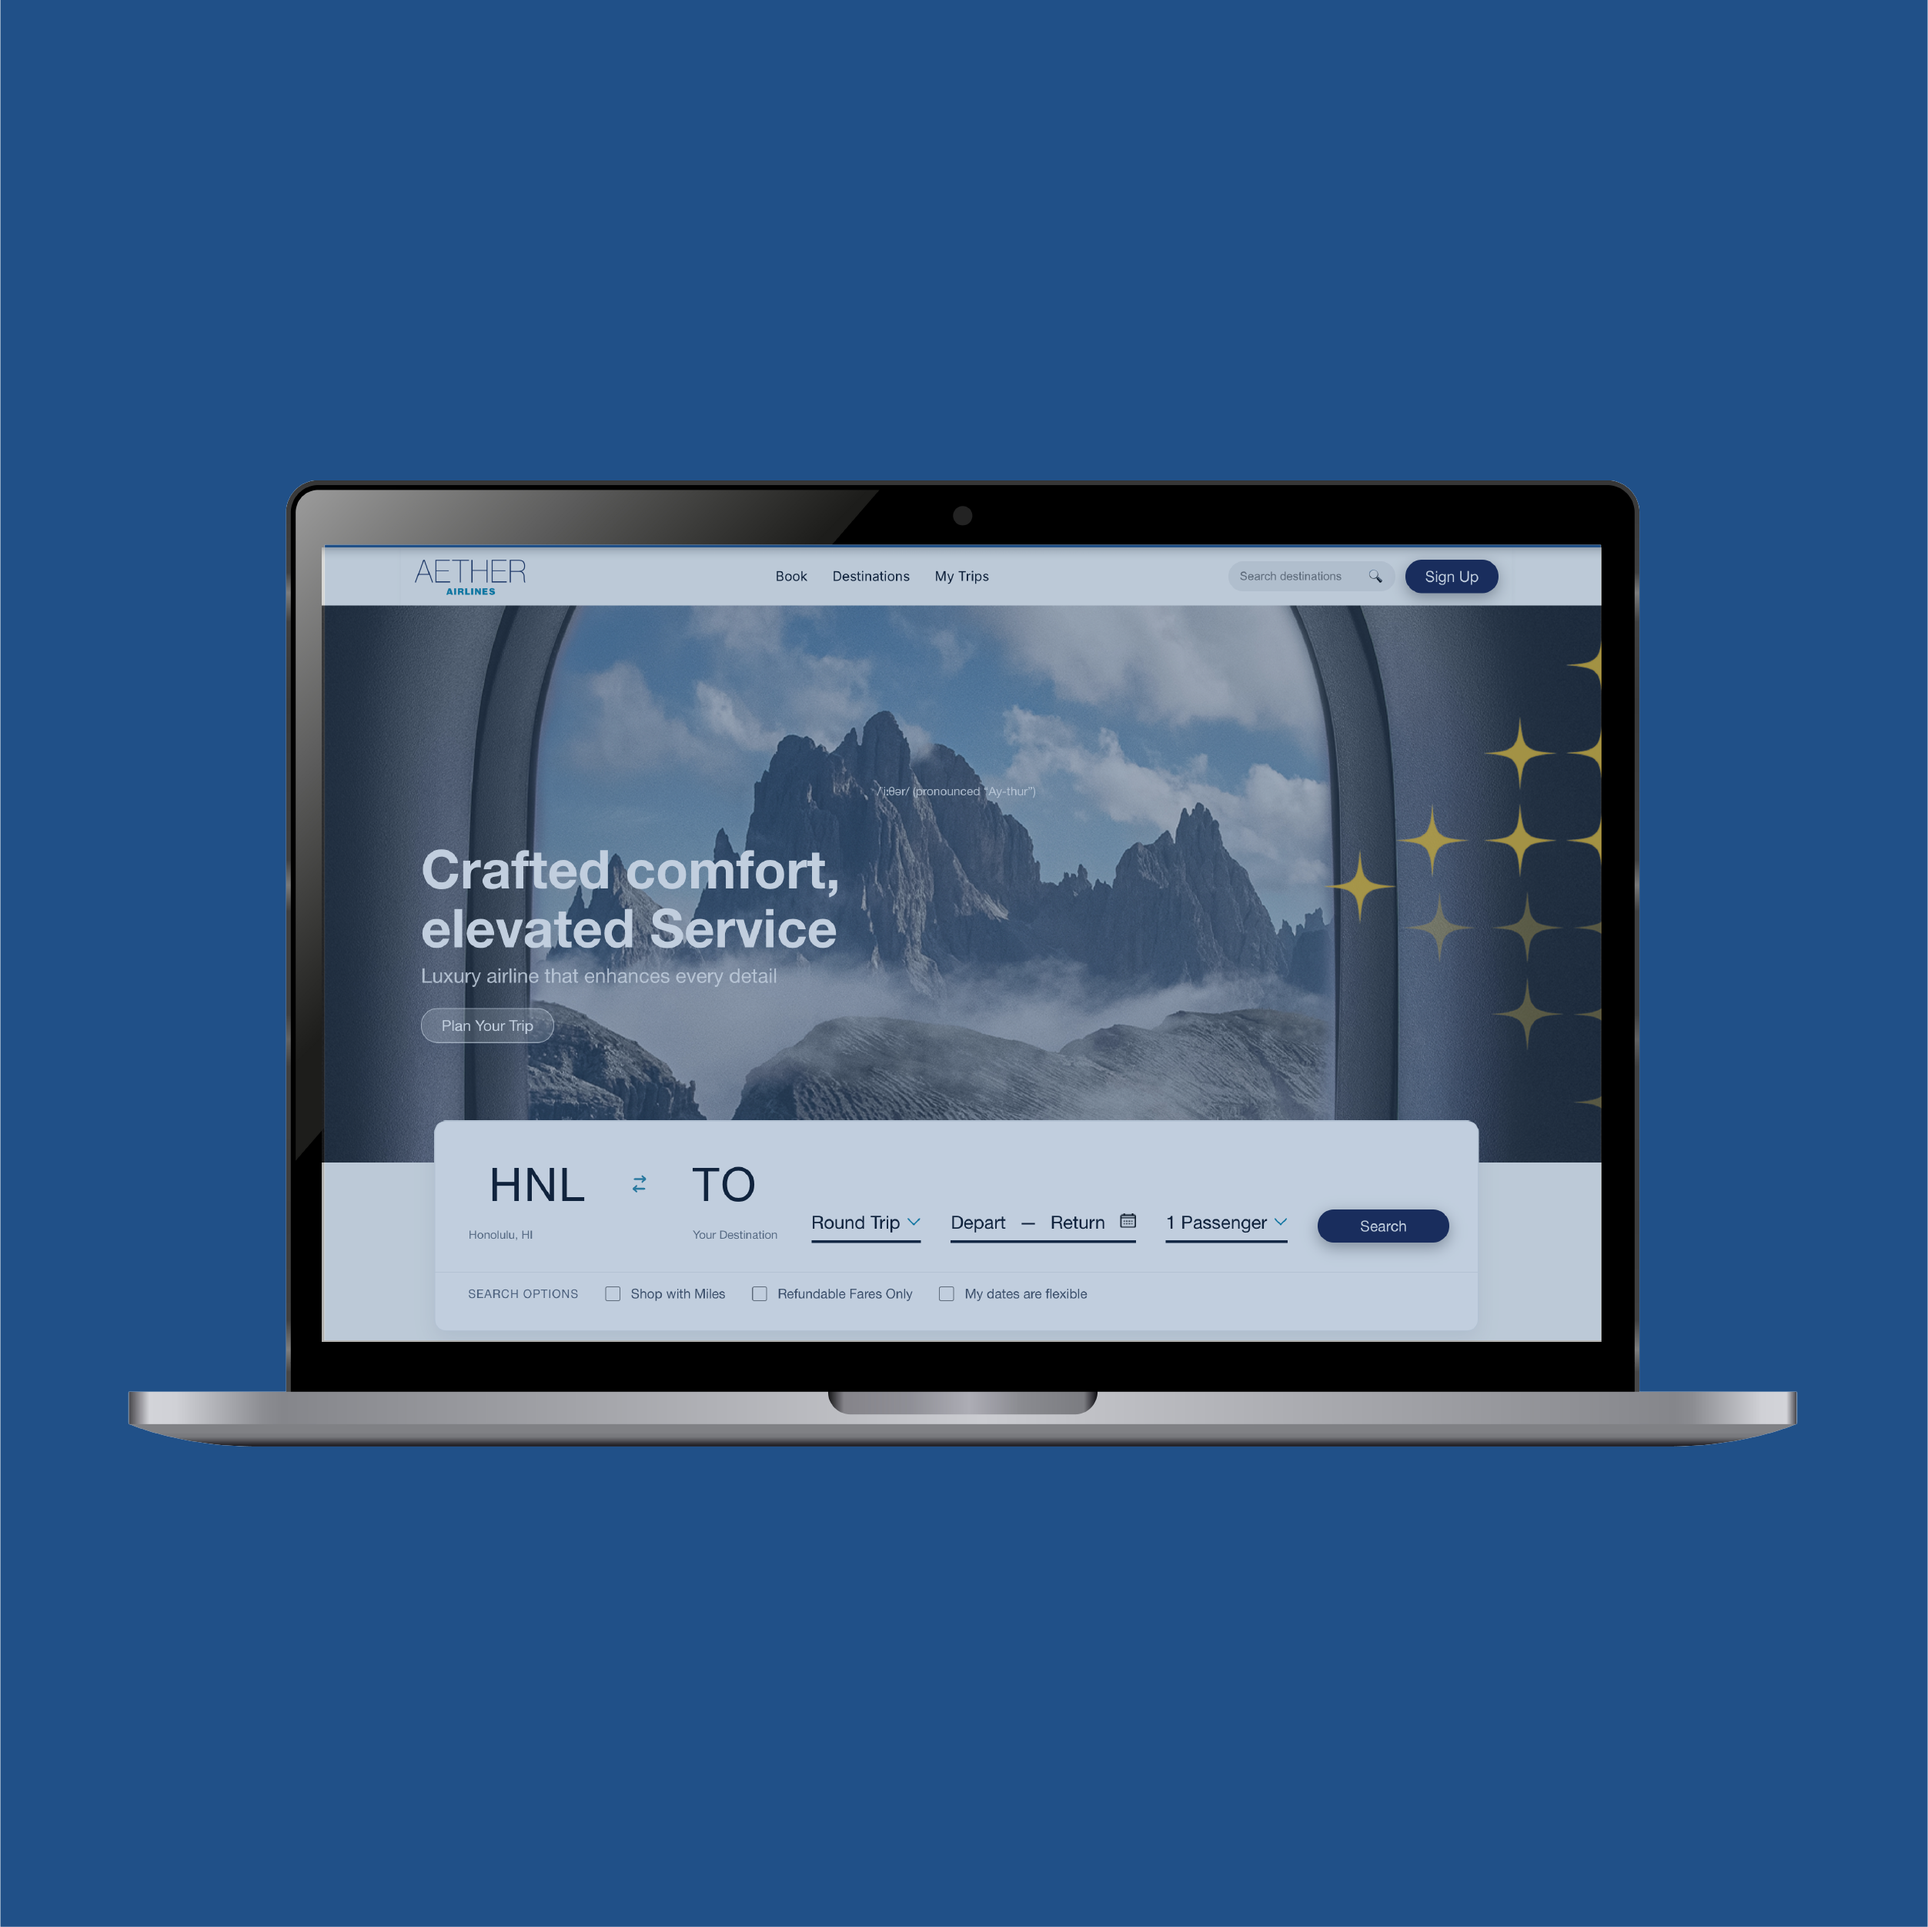
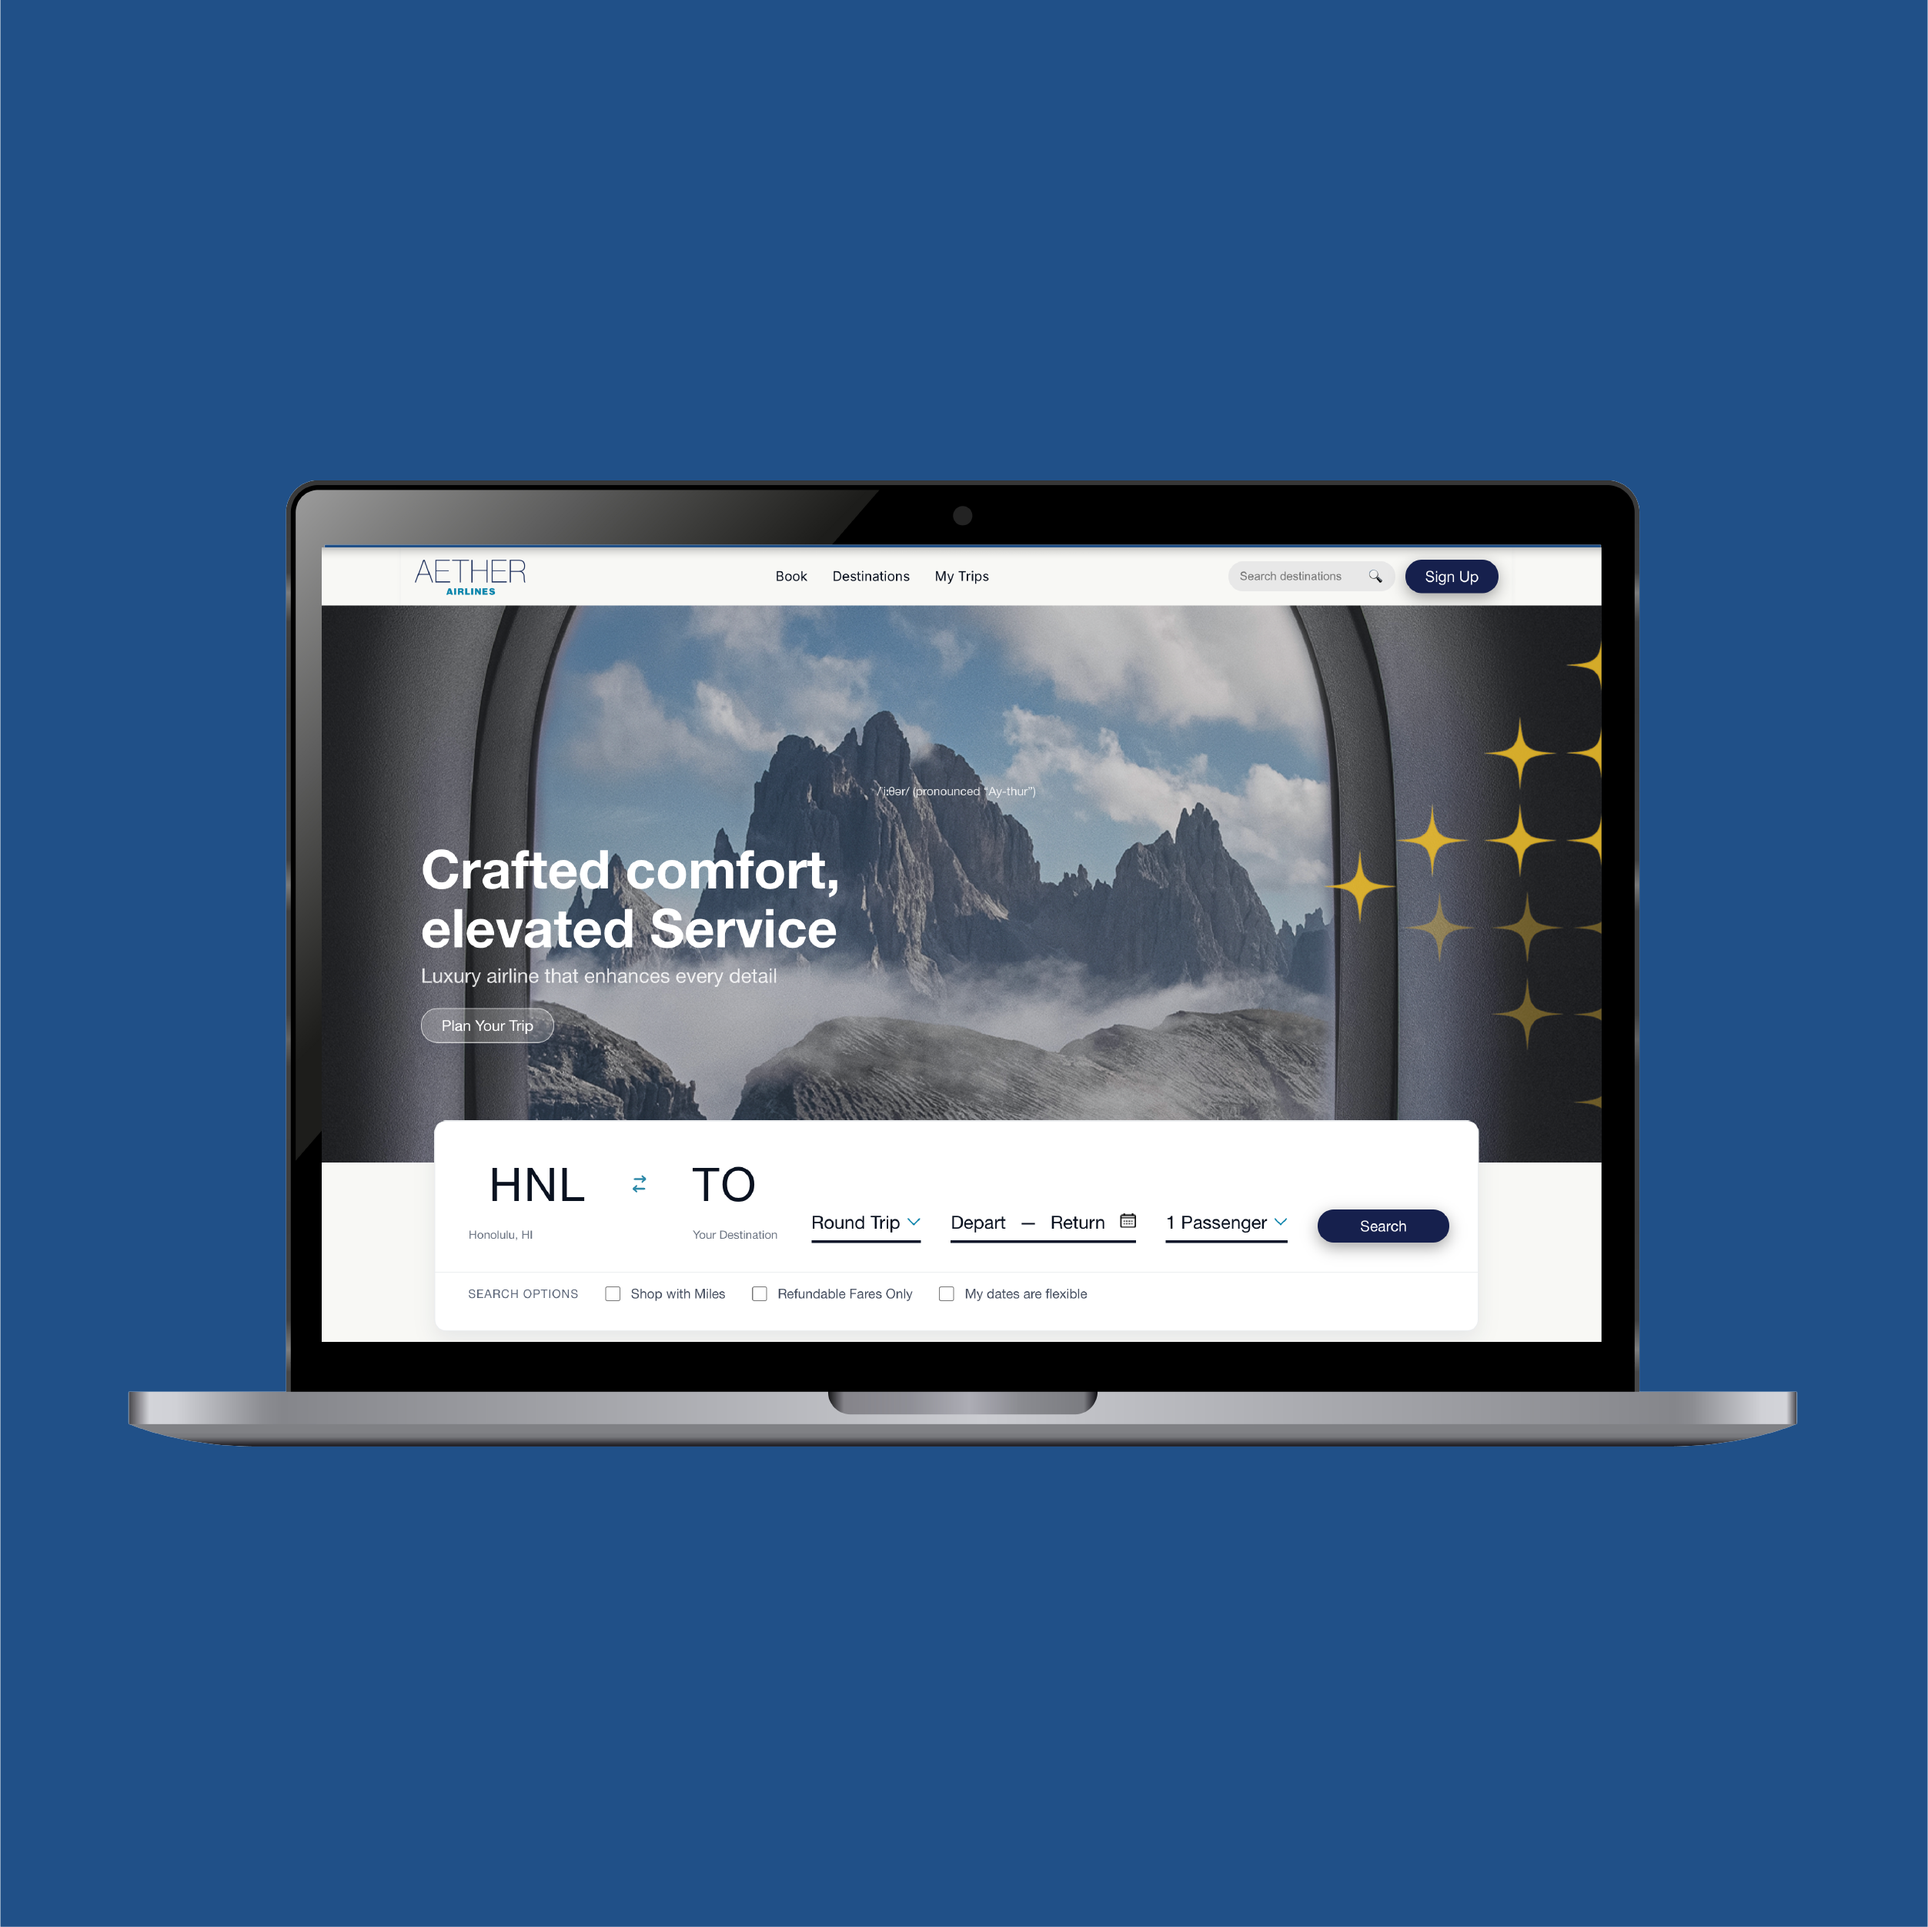
update thumbnails

Changed region(s): [[0.1557, 0.2805, 0.8407, 0.7167]]

diff --git a/index.html b/index.html
@@ -153,7 +153,7 @@
 
                     <a class="card" href="#">
                         <div class="thumb"
-                            style="background-image:url('../portfolio-2026/img/AA-website-mockup-midblue-bg.png')">
+                            style="background-image:url('../portfolio-2026/img/aa-website-mockup-midblue-bg.png')">
                         </div>
                         <div class="meta">
                             <h3>Aether Airlines - Website</h3>
@@ -163,25 +163,27 @@
 
                     <a class="card" href="#">
                         <div class="thumb"
-                            style="background-image:url('../portfolio-2026/img/AA-mobileapp-hands-mockup-blue-bg.png')">
+                            style="background-image:url('../portfolio-2026/img/aa-mobileapp-hands-mockup-blue-bg.png')">
                         </div>
                         <div class="meta">
                             <h3>Aether Airlines - Mobile App</h3>
-                            <p>CreatingFeatures, Mobile Design</p>
+                            <p>Mobile Features, Mobile Design</p>
                         </div>
                     </a>
 
                     <a class="card" href="#">
-                        <div class="thumb" style="background-image:url('https://picsum.photos/1200/800?random=34')">
+                        <div class="thumb"
+                            style="background-image:url('../portfolio-2026/img/amsterdam-tulip-black-logo.png')">
                         </div>
                         <div class="meta">
                             <h3>Tourism Logo</h3>
-                            <p>Logo Design, Brand Identity</p>
+                            <p>Logo Design</p>
                         </div>
                     </a>
 
                     <a class="card" href="#">
-                        <div class="thumb" style="background-image:url('https://picsum.photos/1200/800?random=35')">
+                        <div class="thumb"
+                            style="background-image:url('../portfolio-2026/img/animation-yellow-bg-logo.png')">
                         </div>
                         <div class="meta">
                             <h3>L&L Animation</h3>
@@ -190,11 +192,11 @@
                     </a>
 
                     <a class="card" href="#">
-                        <div class="thumb" style="background-image:url('https://picsum.photos/1200/800?random=36')">
+                        <div class="thumb" style="background-image:url('../portfolio-2026/img/volt-mock-logo.png')">
                         </div>
                         <div class="meta">
-                            <h3>Booking.com</h3>
-                            <p>Website Re-design</p>
+                            <h3>Volt</h3>
+                            <p>Brand Identity, Logo Design, Website Design</p>
                         </div>
                     </a>
                 </div>
